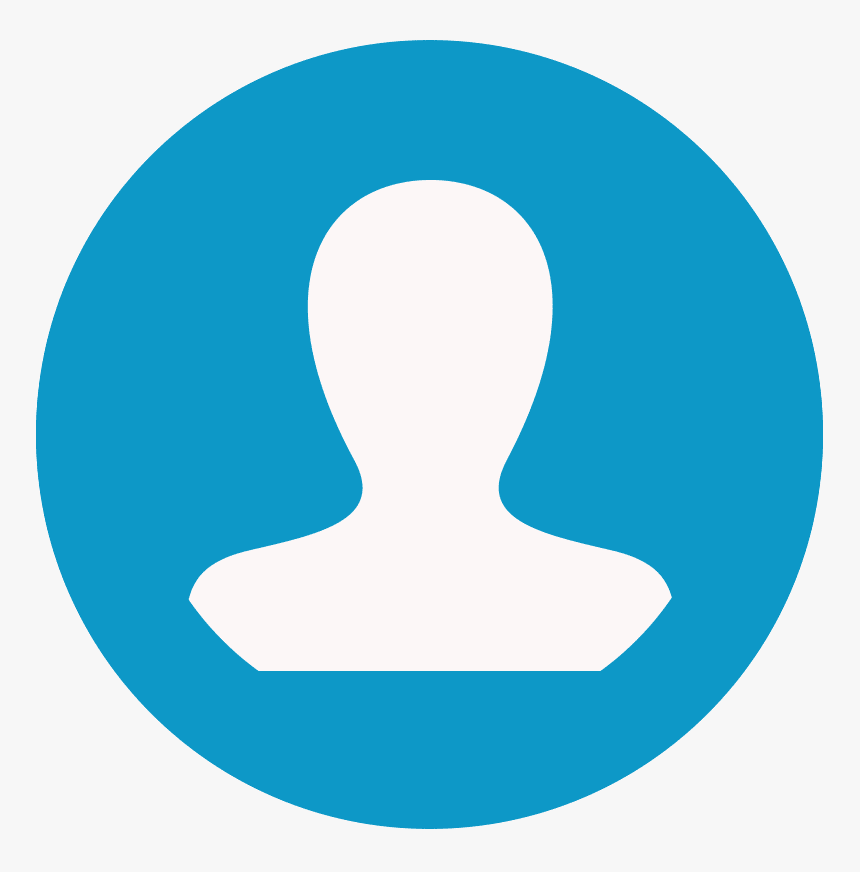
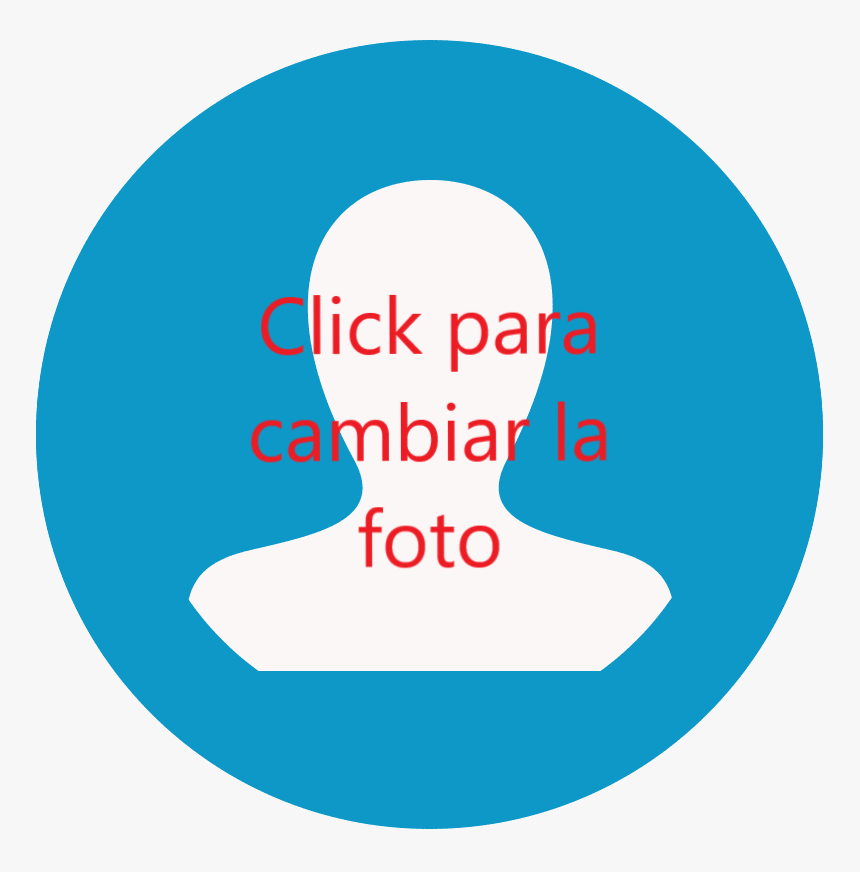
release30-04-2020perfil

diff --git a/controllers/usuariosControl.ts b/controllers/usuariosControl.ts
@@ -8,6 +8,8 @@ let ParticipantesSchema = require('../models/Participantes');
 let MensajesSchema = require('../models/Mensajes');
 let ChatsSchema = require('../models/Chats');
 let mongoose = require('mongoose');
+import {Request, Response} from 'express';
+
 
 //
 import Perfil from '../models/Profile';
@@ -218,7 +220,7 @@ exports.getAmigosde  = async function(req, res){ //me da los amigos de un jugado
     }
 };
 
-exports.updateUsuario = async function (req,res){
+/* exports.updateUsuario = async function (req,res){
     try{
         const {id} = req.params.usuarioId;
         console.log(id);
@@ -248,7 +250,41 @@ exports.updateUsuario = async function (req,res){
         res.status(500).send(err)
         console.log(err);
     }
-};
+}; */
+
+export async function updatePerfil(req:Request, res:Response): Promise<Response>{
+    const {id} = req.params;
+    console.log(id);
+    const {username,mail,password, sexo, ubicacion, edad, exp, valoracion, 
+        partidas, torneos, chats, amigos} = req.body;
+    console.log(req.body);
+    console.log(req.file);
+/*     const rutaimagen = req.file.path;
+    console.log(rutaimagen);*/ 
+    console.log(req.body);
+    console.log(req.file.path);
+    const update = await UsuariosSchema.findByIdAndUpdate(id,{
+        username,
+        mail,
+        password,
+        sexo,
+        rutaimagen : req.file.path,
+        ubicacion,
+        edad,
+        exp,
+        valoracion,
+        partidas,
+        torneos,
+        chats,
+        amigos
+    }, {new: true});
+
+    return res.json({
+        message: 'Success',
+        update
+    })
+}
+
 
 exports.deleteUsuario = async function (req, res) { //borro el usuario que le paso con id
     try{
@@ -265,3 +301,26 @@ exports.deleteUsuario = async function (req, res) { //borro el usuario que le pa
         console.log(err);
     }
 };
+
+
+export async function getpassofuser(req:Request, res: Response){
+    const iduser = req.params.iduser;
+    const contra = await UsuariosSchema.findOne({id: iduser})
+    console.log(contra);
+    if (contra)
+    {
+        res.status(200).json(contra.password);
+    }
+    else{
+        res.status(404).send({message: 'Not Found'});
+    }
+
+};
+
+
+export async function getavatar (req:Request, res:Response): Promise<Response>{
+
+    const avatar = 'uploads\\c12139b9-196e-4ee3-beb5-ce0438932898.png';
+    
+    return res.json(avatar);
+}

diff --git a/routes/UsuariosRoutes.ts b/routes/UsuariosRoutes.ts
@@ -6,7 +6,10 @@ let usuariosControl = require('../controllers/usuariosControl');  //usuarios
 
 //
 import multer from '../libs/multer';
-
+import {updatePerfil} from '../controllers/usuariosControl';
+import {getpassofuser} from '../controllers/usuariosControl';
+import {getavatar} from '../controllers/usuariosControl';
+ 
 //POST
 router.post('/register', usuariosControl.registrar);    // añade un usuario
 router.post('/login', usuariosControl.login);           // logea un usuario
@@ -22,9 +25,15 @@ router.get('/getamigbyuser/:usuarioId', usuariosControl.getAmigosde); // me da l
 //
 router.get('/getidofuser/:username',usuariosControl.getidofuser);
 
+router.route('/getpassofuser/:id')
+    .get(getpassofuser);
+
+ router.route('/avatar/:id')
+    .get(getavatar); 
+
 //PUT
-router.put('/update/:usuarioId', multer.single('rutaimagen'), usuariosControl.updateUsuario);
-//router.route('/update/:usuarioId').put(multer.single('rutaimagen'), usuariosControl.updatePerfil);
+router.route('/update/:id')
+    .put(multer.single('rutaimagen'), updatePerfil);//router.route('/update/:usuarioId').put(multer.single('rutaimagen'), usuariosControl.updatePerfil);
 
 //DELETE
 router.delete('/deleteuser/:usuarioId', usuariosControl.deleteUsuario);  // borra un usuario
